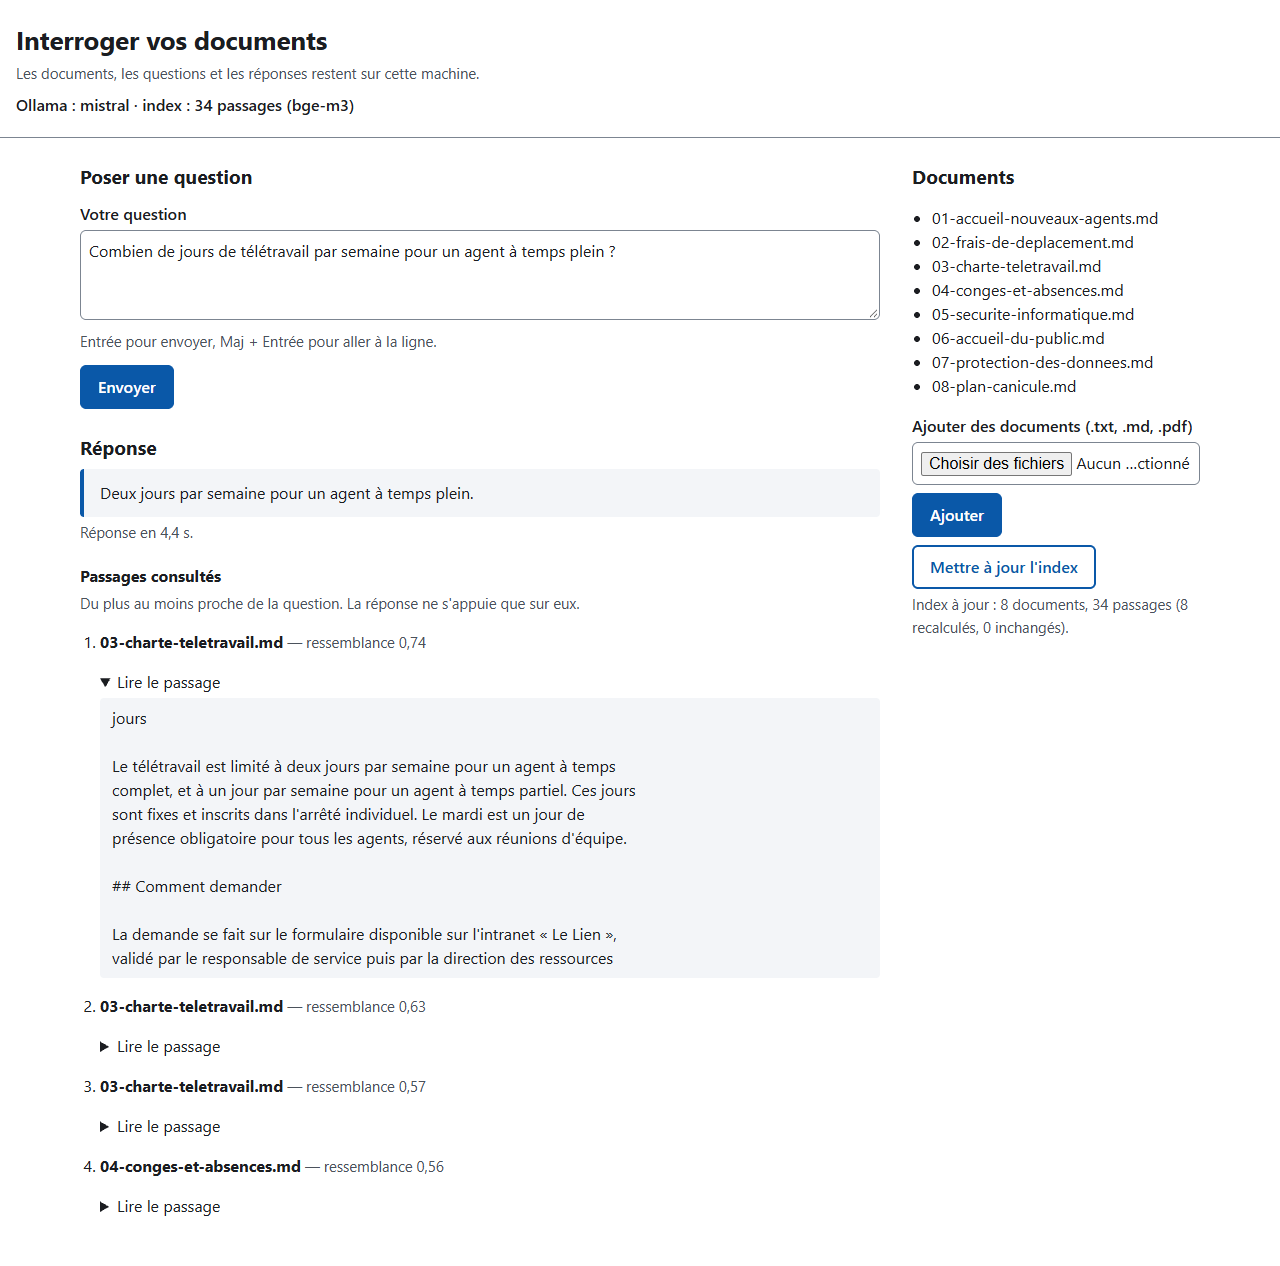
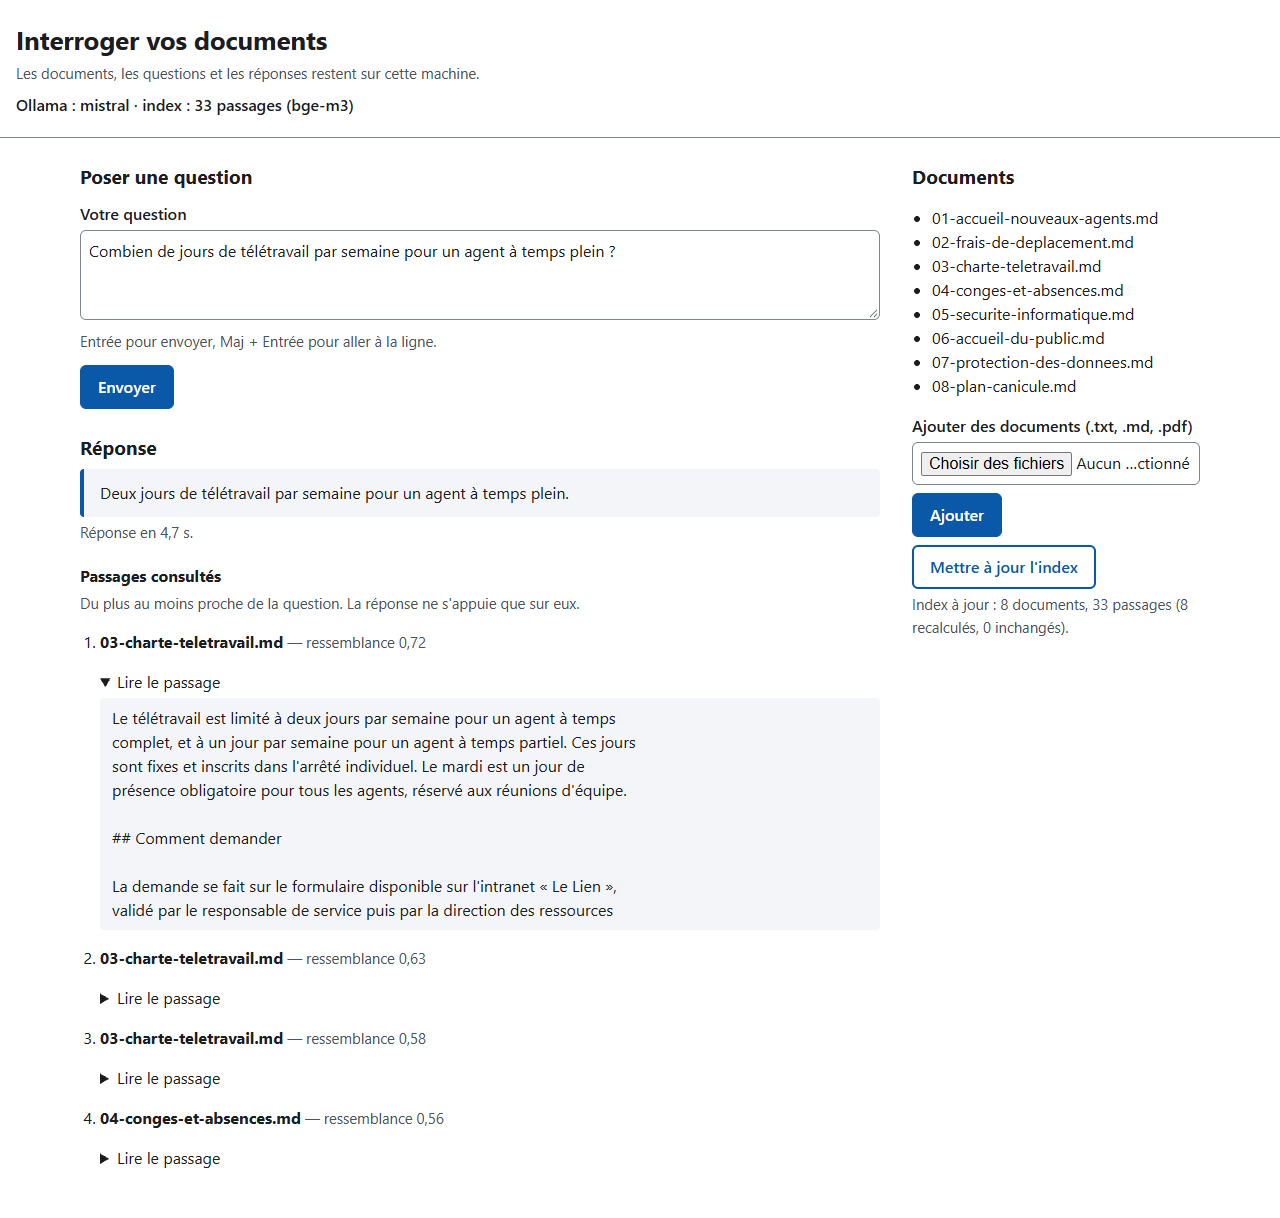
README : mesures avec le nouveau découpage, exemple et capture refaits

diff --git a/README.md b/README.md
@@ -19,11 +19,11 @@ avec mistral 7B et bge-m3 :
 
 ```text
 Question : Combien de jours de télétravail par semaine pour un temps plein ?
-Réponse  : Deux jours de télétravail par semaine pour un agent à temps plein.   (4,6 s)
-Passages : 03-charte-teletravail.md (×4)
+Réponse  : Deux jours par semaine pour un agent à temps plein.                  (4,6 s)
+Passages : 03-charte-teletravail.md (×3), 04-conges-et-absences.md
 
 Question : Quel est le montant de la prime de Noël ?
-Réponse  : Je ne trouve pas cette information dans les documents.               (4,5 s)
+Réponse  : Je ne trouve pas cette information dans les documents.               (4,7 s)
 ```
 
 Dans la page web, la réponse s'écrit au fil de l'eau, suivie des passages
@@ -104,57 +104,66 @@ rechargés : résultats identiques.
 
 ### Recherche
 
+Code actuel (passages repartant d'un début de ligne, voir plus bas) :
+
 | Embeddings | Développement : en tête | Développement : parmi les 4 | Contrôle : en tête | Contrôle : parmi les 4 |
 |---|---|---|---|---|
-| nomic-embed-text (version précédente) | 14/34 | 25/34 | 9/16 | 14/16 |
-| **bge-m3 (retenu)** | 31/34 | **34/34** | 15/16 | **16/16** |
+| nomic-embed-text (version précédente) | 17/34 | 27/34 | 7/16 | 12/16 |
+| **bge-m3 (retenu)** | 30/34 | **34/34** | 14/16 | **16/16** |
 
 La version précédente de ce dépôt utilisait `nomic-embed-text`, entraîné
-surtout sur de l'anglais : pour 9 questions de développement sur 34, le
-passage utile n'était même pas transmis au modèle. `bge-m3`, multilingue,
-le transmet à chaque fois.
+surtout sur de l'anglais : pour 7 à 9 questions de développement sur 34
+selon le découpage, le passage utile n'était même pas transmis au modèle.
+`bge-m3`, multilingue, le transmet à chaque fois.
 
 ### Réponses (mistral 7B)
 
 | Embeddings | Questions avec réponse : justes | Refus à tort | Questions sans réponse : refus correct | Réponses inventées |
 |---|---|---|---|---|
-| nomic-embed-text, développement | 26/34 | 7 | 5/6 | 1 |
-| nomic-embed-text, contrôle | 15/16 | 1 | 5/5 | 0 |
+| nomic-embed-text, développement | 27/34 | 3 | 6/6 | 0 |
+| nomic-embed-text, contrôle | 13/16 | 2 | 5/5 | 0 |
 | **bge-m3, développement** | **34/34** | 0 | 5/6 | 1 |
-| **bge-m3, contrôle** | **16/16** | 0 | 3/5 | 2 |
+| **bge-m3, contrôle** | **16/16** | 0 | 5/5 | 0 |
 
 Environ 4,7 secondes par question (recherche et réponse) sur une RTX 3080.
 
 Ce qu'il faut en retenir :
 
 - **Avec bge-m3, toutes les réponses présentes dans les documents sont
-  trouvées** (50 sur 50, les deux jeux réunis), contre 41 sur 50 avec
-  nomic-embed-text, dont les échecs sont presque tous des « je ne trouve
-  pas » honnêtes : le modèle n'avait pas reçu le bon passage.
-- **Le revers : quand la réponse est absente, le modèle extrapole plus
-  souvent.** Avec bge-m3, la recherche lui fournit des passages proches du
-  sujet, et il en tire une conclusion que les documents ne donnent pas.
-  Sur 11 questions sans réponse, 3 réponses inventées avec bge-m3, contre
-  1 avec nomic-embed-text. Exemples réels :
-  - « La mairie rembourse-t-elle l'abonnement de transport en commun des
-    agents ? » → « Non, la mairie ne rembourse pas… » (les documents ne
-    traitent que des frais de mission) ;
-  - « Peut-on télétravailler depuis l'étranger ? » → « Non… selon la charte
-    du télétravail » (la charte n'en parle pas).
-- **bge-m3 est gardé par défaut** : manquer 9 réponses sur 50 qui sont dans
+  trouvées** (50 sur 50, les deux jeux réunis), contre 40 sur 50 avec
+  nomic-embed-text, dont les échecs viennent surtout de passages utiles
+  jamais transmis au modèle.
+- **Le risque d'extrapolation demeure.** Avec bge-m3, la recherche fournit
+  des passages proches du sujet même quand la réponse n'y est pas, et le
+  modèle peut en tirer une conclusion que les documents ne donnent pas :
+  « Peut-on télétravailler depuis l'étranger ? » → « Non… selon la charte du
+  télétravail », alors que la charte n'en parle pas. Avec l'ancien découpage,
+  trois questions sans réponse sur onze recevaient ainsi une réponse
+  inventée (aussi « La mairie rembourse-t-elle l'abonnement de transport en
+  commun ? » → « Non »), contre une avec le découpage actuel. Sur onze
+  questions et un seul passage par configuration, cet écart ne permet pas
+  de conclure que le découpage réduit le risque.
+- **bge-m3 est gardé par défaut** : manquer 10 réponses sur 50 qui sont dans
   les documents rend l'outil inutile pour l'agent. Mais une réponse
   affirmative ou négative doit se vérifier dans les passages affichés sous
   la réponse ; c'est pour cela qu'ils sont toujours montrés.
 
-**Ce qui a changé pendant la mise au point.** La détection du refus ne
-reconnaissait d'abord que la phrase imposée ; le modèle dit parfois la même
-chose avec ses mots (« La cantine du personnel n'est pas mentionnée dans les
-extraits »), ce qui était compté à tort comme une réponse inventée. Quelques
-tournures précises sont maintenant reconnues ; un test vérifie qu'une simple
-négation (« les amendes ne sont pas remboursées ») n'est pas prise pour un
-refus. Une réponse du contrôle reste à la limite : « Non, il n'y a pas de
-mention dans les extraits fournis que l'on puisse venir au travail avec son
-chien » commence par une conclusion et est comptée comme inventée.
+**Ce qui a changé pendant la mise au point.**
+
+- La détection du refus ne reconnaissait d'abord que la phrase imposée ; le
+  modèle dit parfois la même chose avec ses mots (« La cantine du personnel
+  n'est pas mentionnée dans les extraits »), ce qui était compté à tort comme
+  une réponse inventée. Quelques tournures précises sont maintenant
+  reconnues ; un test vérifie qu'une simple négation (« les amendes ne sont
+  pas remboursées ») n'est pas prise pour un refus.
+- Le recouvrement entre deux passages voisins repartait du premier mot
+  venu : un passage pouvait commencer par « jours », fin d'un titre coupé.
+  Il repart maintenant d'un début de ligne quand il y en a un. Mesures avec
+  l'ancien découpage (34 passages au lieu de 33) : bge-m3 en tête 31/34 et
+  15/16, réponses justes 34/34 et 16/16, refus corrects 5/6 et 3/5 ;
+  nomic-embed-text réponses justes 26/34 et 15/16. Les tableaux ci-dessus
+  sont ceux du code actuel, mesuré une fois sur chaque jeu, modèles
+  rechargés.
 
 ## Accessibilité
 
@@ -287,7 +296,7 @@ python -m pip install -e ".[dev]"
 python -m pytest --cov
 ```
 
-51 tests, sans GPU ni réseau : un faux client remplace Ollama. Ils couvrent
+52 tests, sans GPU ni réseau : un faux client remplace Ollama. Ils couvrent
 l'index incrémental, la recherche, la reconnaissance du refus, l'API web
 (flux de réponse, dépôt de fichiers, noms de fichiers assainis),
 l'accessibilité de la page, la ligne de commande, et le contrat avec Ollama
